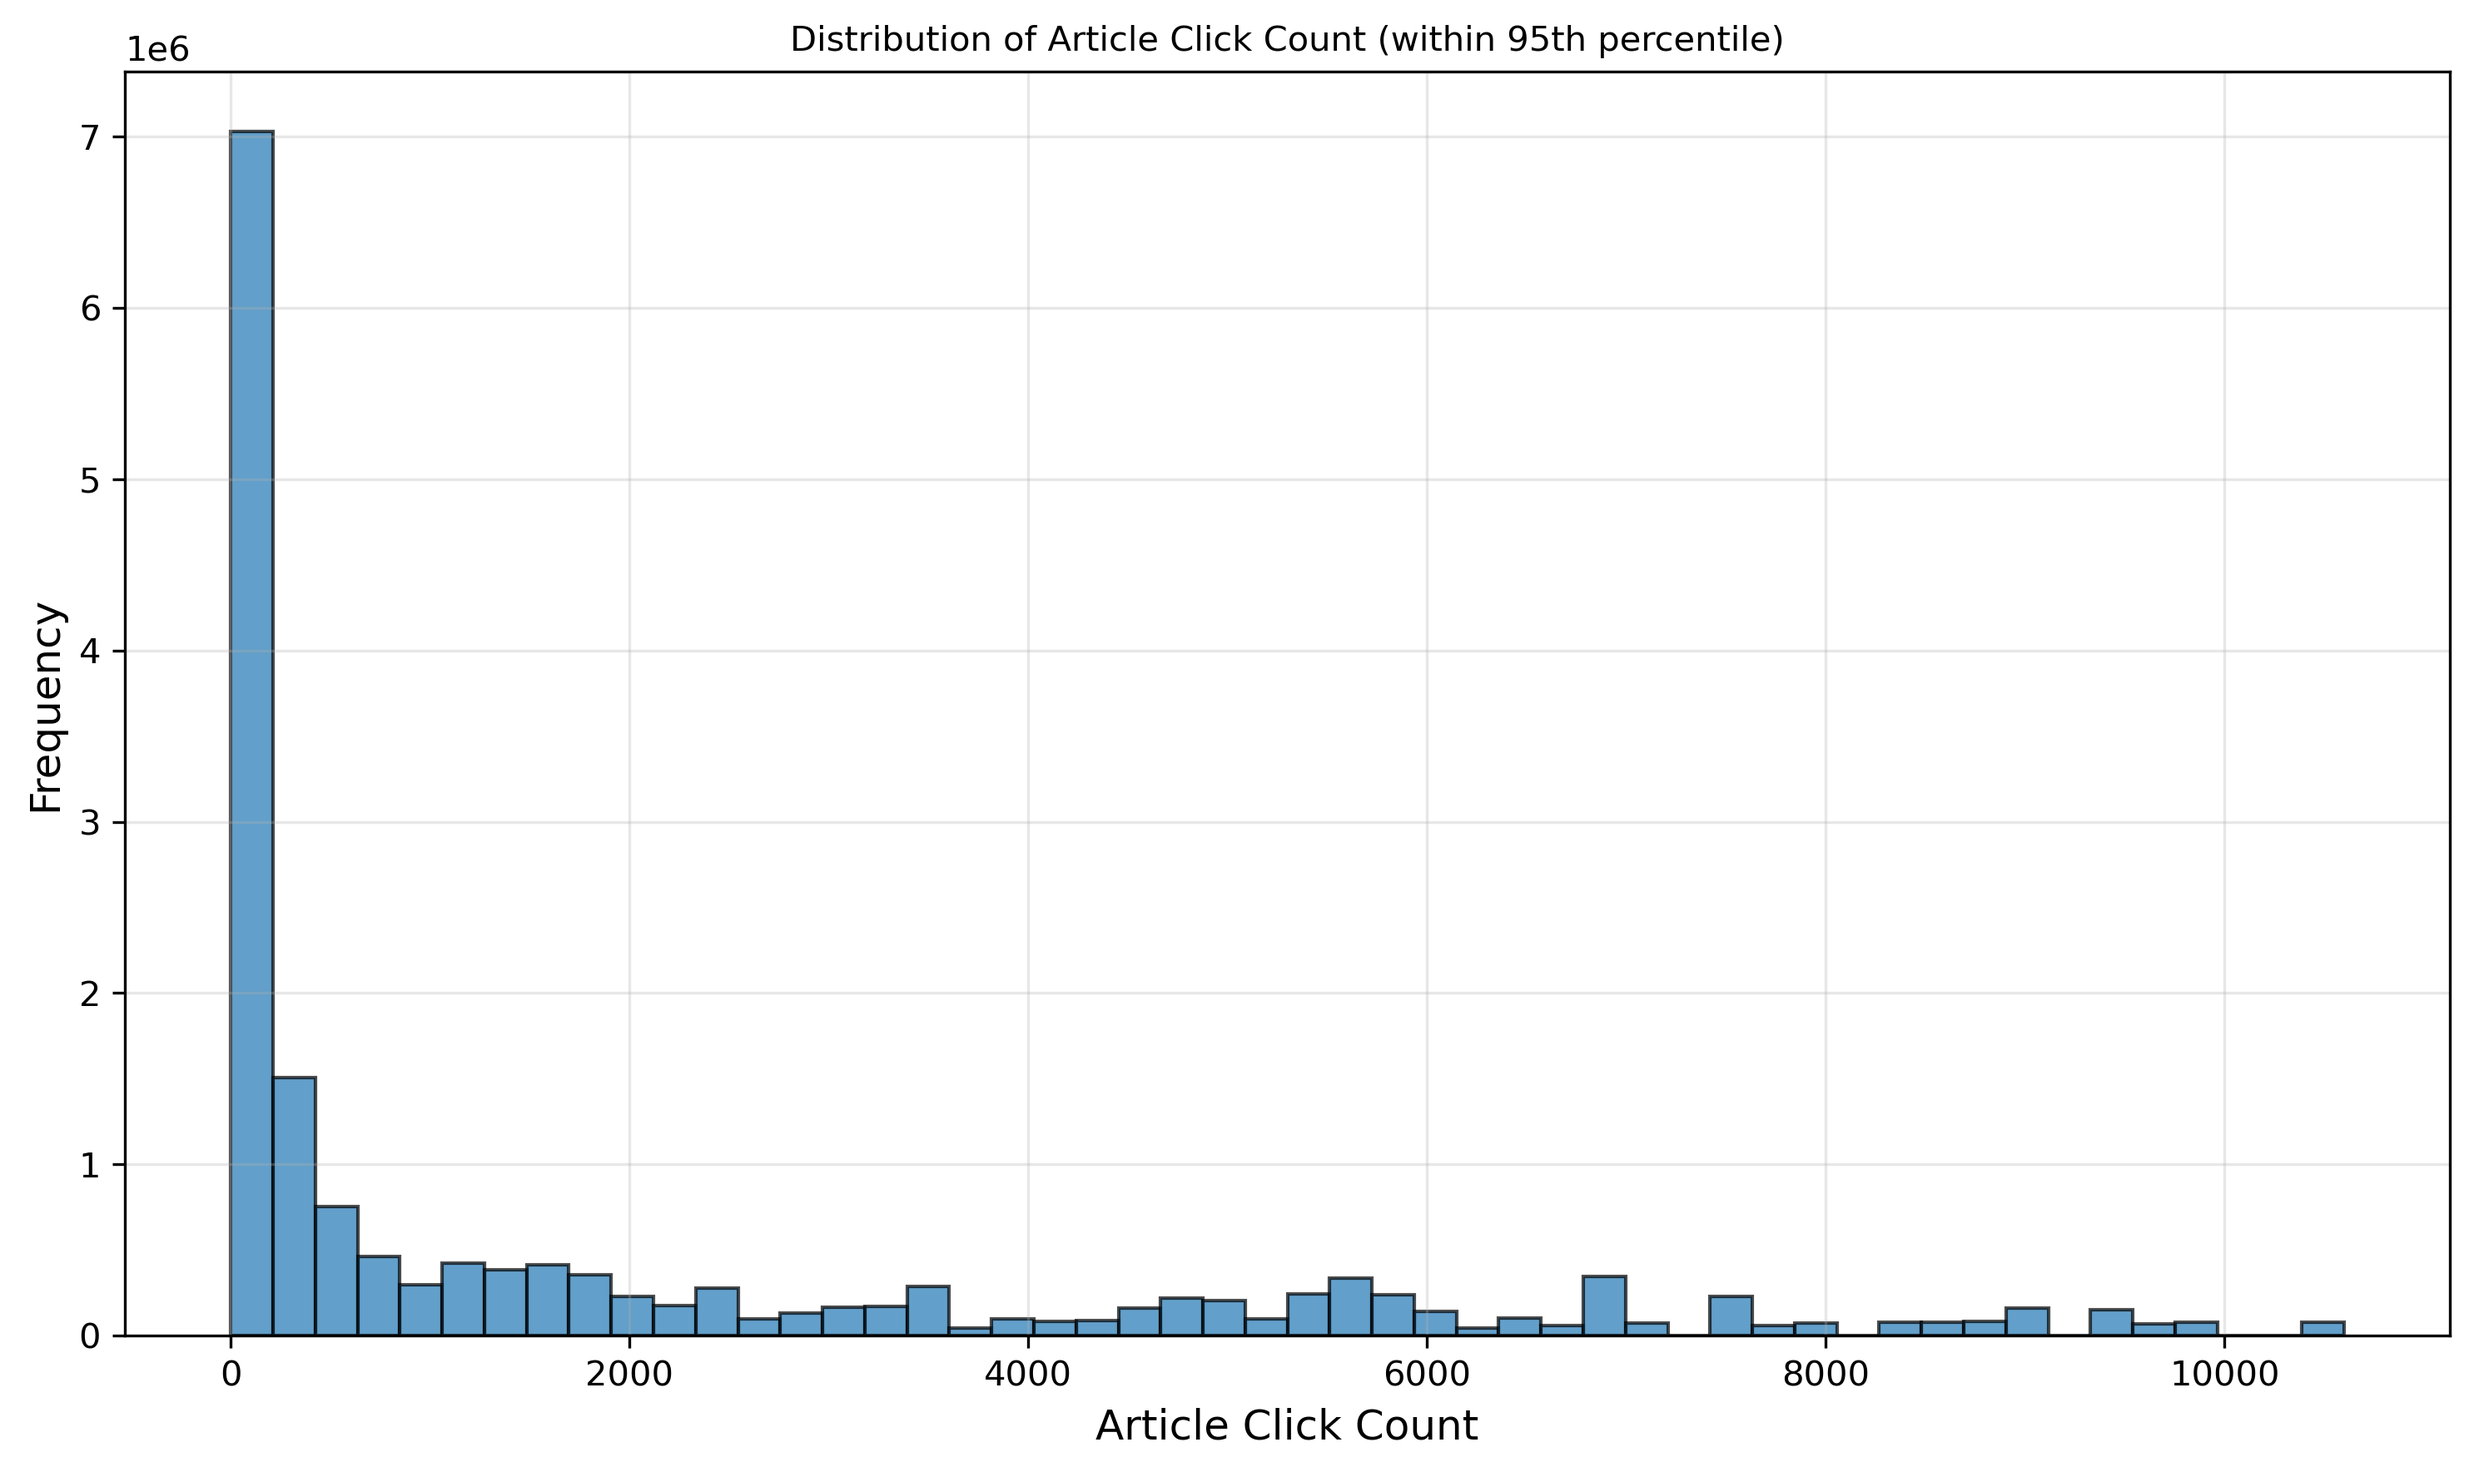
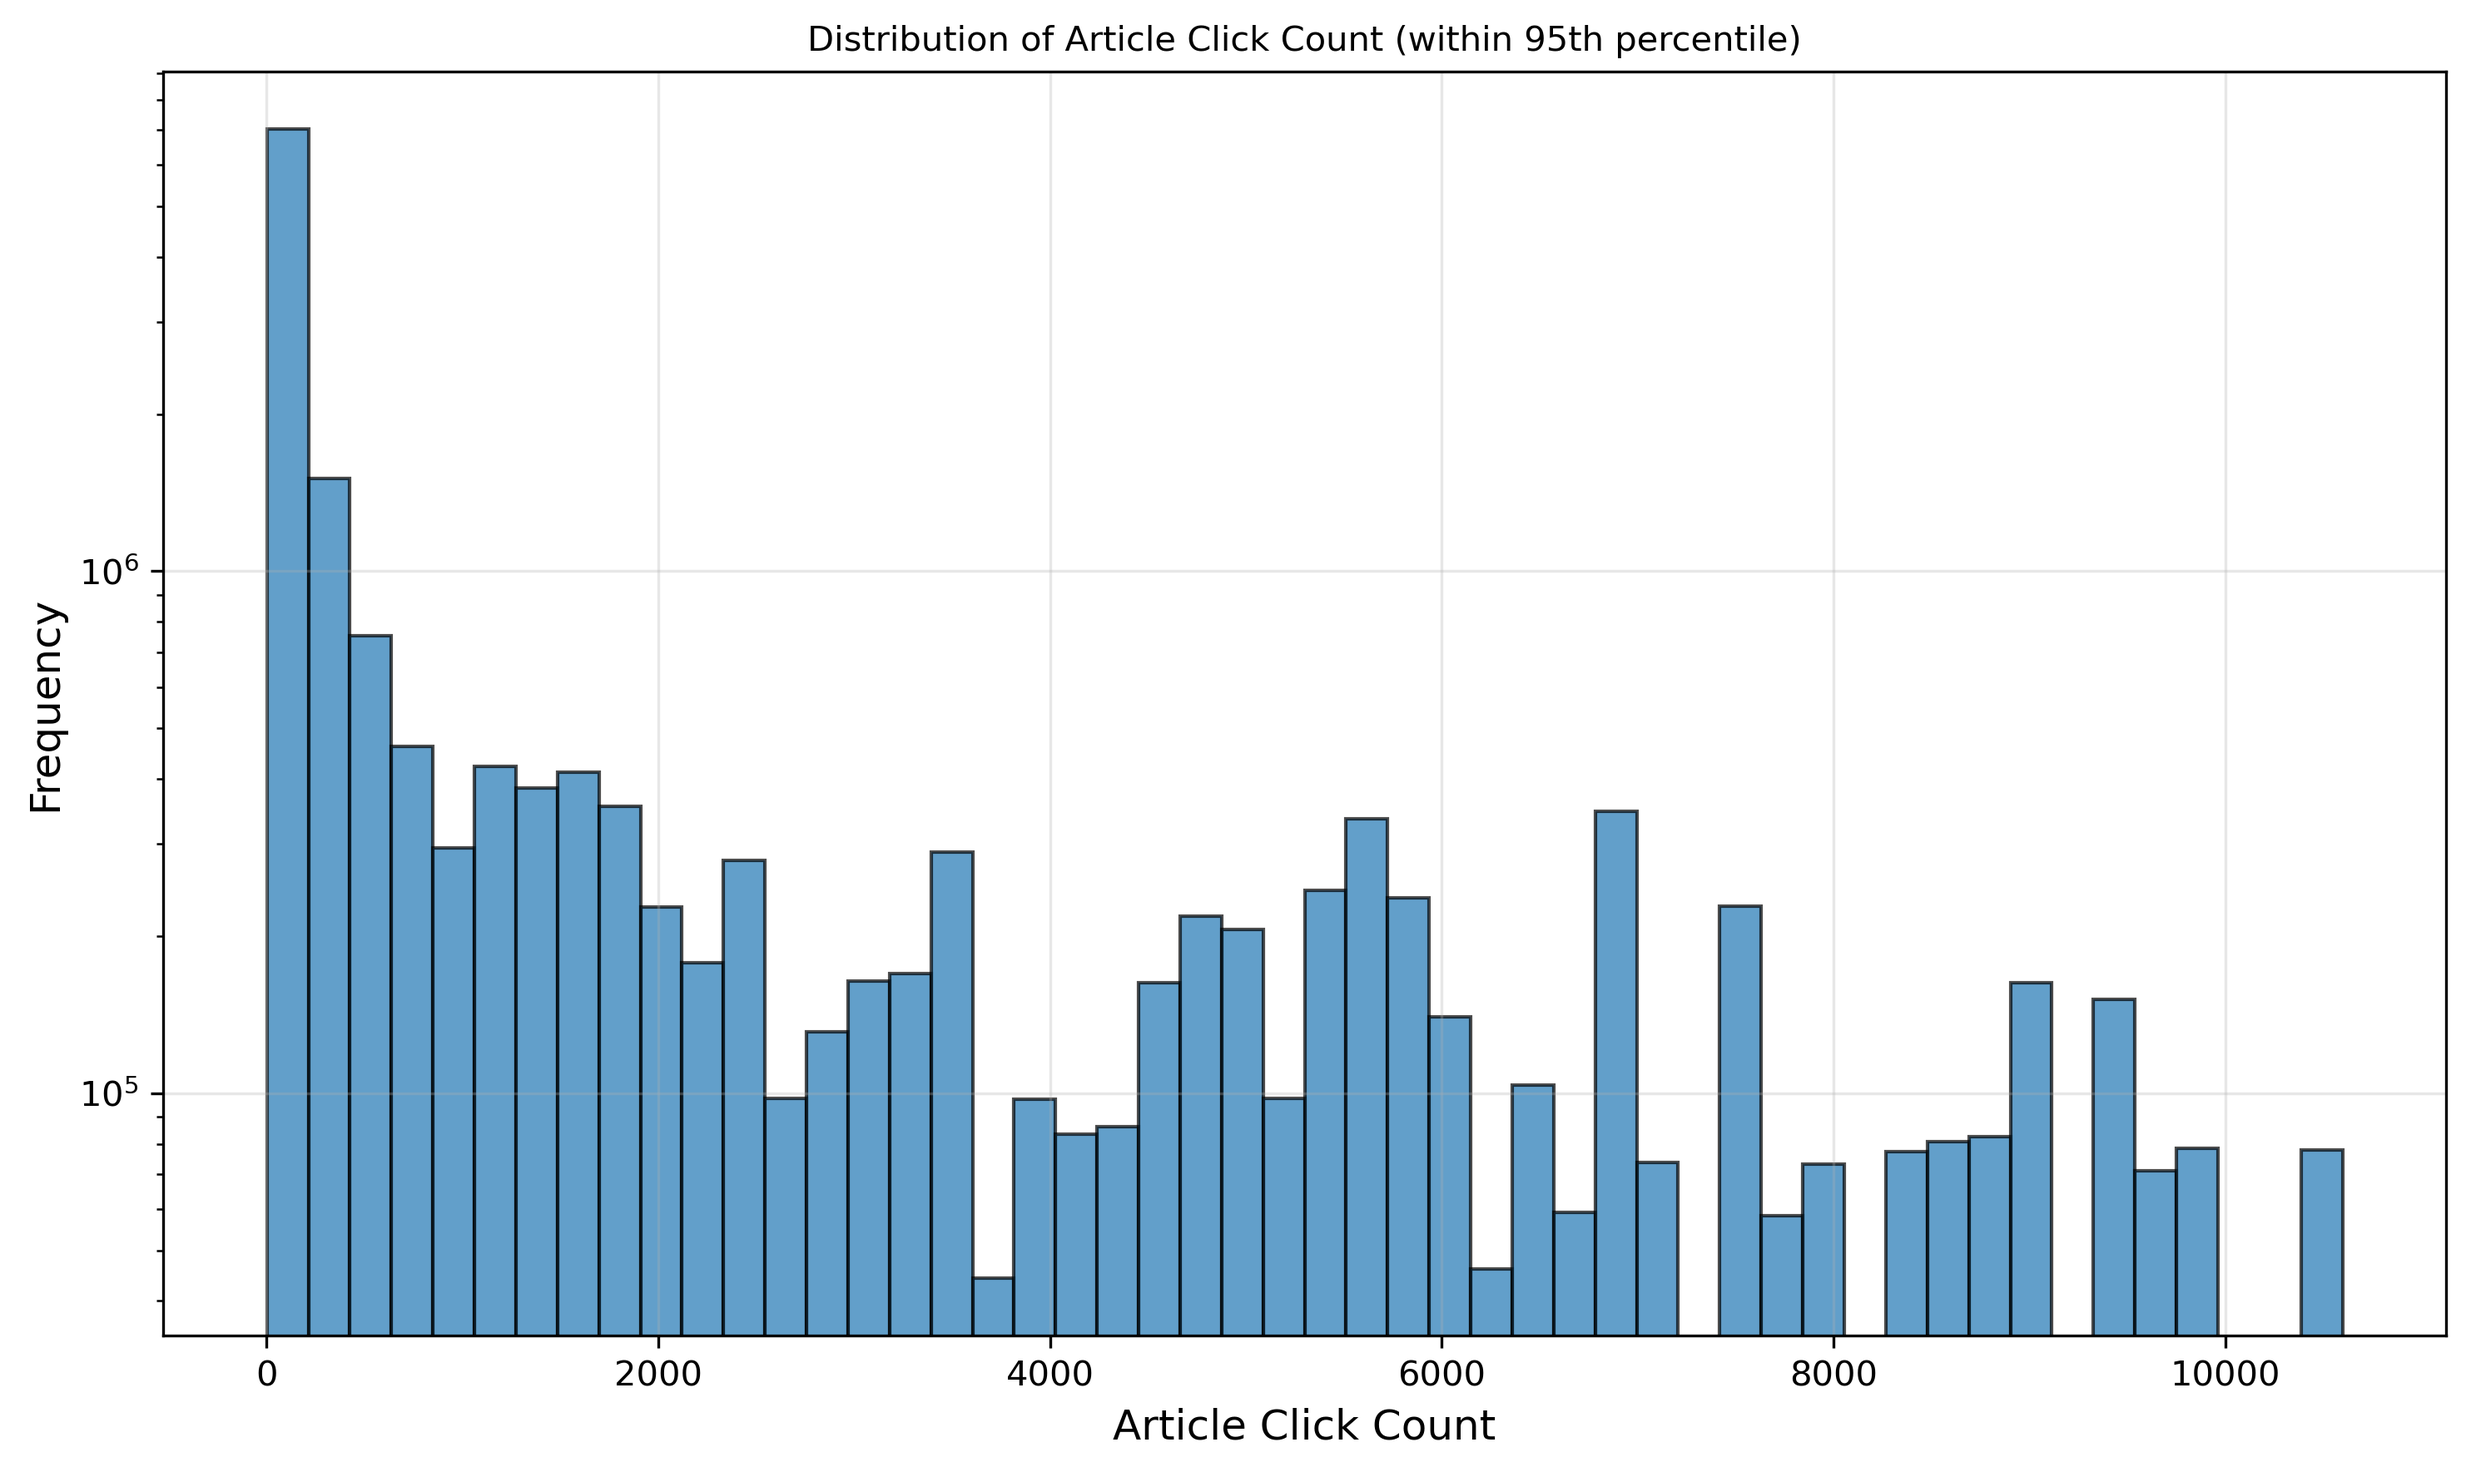
docs: 更新部分图片坐标，完善报告

diff --git a/report/generate_feature_plots.py b/report/generate_feature_plots.py
@@ -54,6 +54,8 @@ def main():
         plt.xlabel('Article Word Count', fontsize=12, fontproperties=FONT_PROP)
         plt.ylabel('Frequency', fontsize=12, fontproperties=FONT_PROP)
         plt.title('Distribution of Article Word Count', fontsize=14, fontweight='bold', fontproperties=FONT_PROP)
+        # 使用对数刻度，使长尾分布更易观察
+        plt.yscale('log')
         plt.grid(True, alpha=0.3)
         plt.tight_layout()
         plt.savefig(os.path.join(output_dir, 'words_count_distribution.png'), dpi=300, bbox_inches='tight')
@@ -94,11 +96,18 @@ def main():
         time_diff = df_feature['user_last_click_timestamp_diff'].dropna()
         # Filter outliers
         time_diff = time_diff[(time_diff >= -1e10) & (time_diff <= 1e10)]
-        plt.hist(time_diff, bins=50, edgecolor='black', alpha=0.7)
-        plt.xlabel('User Last Click Time Difference (s)', fontsize=12, fontproperties=FONT_PROP)
-        plt.ylabel('Frequency', fontsize=12, fontproperties=FONT_PROP)
+        # Convert to days for better readability
+        time_diff_days = time_diff / (24 * 3600)
+        # Filter to reasonable range (-30 to 30 days) for better visualization
+        time_diff_days = time_diff_days[(time_diff_days >= -30) & (time_diff_days <= 30)]
+        plt.hist(time_diff_days, bins=60, edgecolor='black', alpha=0.7)
+        plt.xlabel('User Last Click Time Difference (days)', fontsize=12, fontproperties=FONT_PROP)
+        plt.ylabel('Frequency (log scale)', fontsize=12, fontproperties=FONT_PROP)
+        plt.yscale('log')  # Use log scale for y-axis to handle long tail
         plt.title('Distribution of User Last Click Time Difference', fontsize=14, fontweight='bold', fontproperties=FONT_PROP)
-        plt.grid(True, alpha=0.3)
+        plt.axvline(x=0, color='red', linestyle='--', linewidth=1.5, alpha=0.7, label='No difference')
+        plt.legend()
+        plt.grid(True, alpha=0.3, which='both')
         plt.tight_layout()
         plt.savefig(os.path.join(output_dir, 'user_last_click_timestamp_diff.png'), dpi=300, bbox_inches='tight')
         plt.close()
@@ -127,6 +136,7 @@ def main():
         plt.xlabel('User Click Count', fontsize=12, fontproperties=FONT_PROP)
         plt.ylabel('Frequency', fontsize=12, fontproperties=FONT_PROP)
         plt.title('Distribution of User Click Count (within 95th percentile)', fontsize=14, fontweight='bold', fontproperties=FONT_PROP)
+        plt.yscale('log')
         plt.grid(True, alpha=0.3)
         plt.tight_layout()
         plt.savefig(os.path.join(output_dir, 'user_click_count_distribution.png'), dpi=300, bbox_inches='tight')
@@ -142,6 +152,7 @@ def main():
         plt.xlabel('Article Click Count', fontsize=12, fontproperties=FONT_PROP)
         plt.ylabel('Frequency', fontsize=12, fontproperties=FONT_PROP)
         plt.title('Distribution of Article Click Count (within 95th percentile)', fontsize=14, fontweight='bold', fontproperties=FONT_PROP)
+        plt.yscale('log')
         plt.grid(True, alpha=0.3)
         plt.tight_layout()
         plt.savefig(os.path.join(output_dir, 'article_click_count_distribution.png'), dpi=300, bbox_inches='tight')
@@ -177,11 +188,15 @@ def main():
         # Convert to days since min time for better visualization
         min_time = created_time.min()
         days_since_min = (created_time - min_time) / (24 * 3600)
-        plt.hist(days_since_min, bins=50, edgecolor='black', alpha=0.7)
+        # Filter to 99th percentile to remove extreme outliers for better visualization
+        q99 = days_since_min.quantile(0.99)
+        days_since_min_filtered = days_since_min[days_since_min <= q99]
+        plt.hist(days_since_min_filtered, bins=80, edgecolor='black', alpha=0.7)
         plt.xlabel('Days Since Minimum Creation Time', fontsize=12, fontproperties=FONT_PROP)
-        plt.ylabel('Frequency', fontsize=12, fontproperties=FONT_PROP)
+        plt.ylabel('Frequency (log scale)', fontsize=12, fontproperties=FONT_PROP)
+        plt.yscale('log')  # Use log scale for y-axis to handle long tail
         plt.title('Distribution of Article Creation Time', fontsize=14, fontweight='bold', fontproperties=FONT_PROP)
-        plt.grid(True, alpha=0.3)
+        plt.grid(True, alpha=0.3, which='both')
         plt.tight_layout()
         plt.savefig(os.path.join(output_dir, 'article_creation_time_distribution.png'), dpi=300, bbox_inches='tight')
         plt.close()
@@ -228,6 +243,7 @@ def main():
         plt.ylabel('Frequency', fontsize=12, fontproperties=FONT_PROP)
         plt.title('Word Count Distribution: Positive vs Negative Samples', fontsize=14, fontweight='bold', fontproperties=FONT_PROP)
         plt.legend()
+        plt.yscale('log')
         plt.grid(True, alpha=0.3)
         plt.tight_layout()
         plt.savefig(os.path.join(output_dir, 'words_count_pos_neg_comparison.png'), dpi=300, bbox_inches='tight')
@@ -247,6 +263,7 @@ def main():
         plt.ylabel('Frequency', fontsize=12, fontproperties=FONT_PROP)
         plt.title('Similarity Score Distribution: Positive vs Negative Samples', fontsize=14, fontweight='bold', fontproperties=FONT_PROP)
         plt.legend()
+        plt.yscale('log')
         plt.grid(True, alpha=0.3)
         plt.tight_layout()
         plt.savefig(os.path.join(output_dir, 'sim_score_pos_neg_comparison.png'), dpi=300, bbox_inches='tight')

diff --git a/report/report.tex b/report/report.tex
@@ -176,13 +176,6 @@
 \end{tabular}
 \end{table}
 
-\begin{figure}[htbp]
-\centering
-\includegraphics[width=0.8\textwidth]{assets/words_count_distribution.png}
-\caption{文章字数分布}
-\end{figure}
-
-\textbf{关键发现：}从分布图可以看出，文章字数主要集中在100-300字之间，符合新闻文章的特点。正负样本的字数分布相似，说明文章长度需要与其他特征配合使用。不同类别的文章数量差异很大，某些类别的正样本比例明显高于其他类别，说明类别特征很重要。
 
 \begin{figure}[H]
 \centering
@@ -197,6 +190,30 @@
 \caption{文章类别分布}
 \end{subfigure}
 \caption{文章基础特征分布}
+\end{figure}
+
+\textbf{关键发现：}从分布图可以看出，文章字数主要集中在100-300字之间，符合新闻文章的特点。正负样本的字数分布相似，说明文章长度需要与其他特征配合使用。不同类别的文章数量差异很大，某些类别的正样本比例明显高于其他类别，说明类别特征很重要。
+
+
+\begin{figure}[H]
+\centering
+\includegraphics[width=0.8\textwidth]{assets/article_creation_time_distribution.png}
+\caption{文章创建时间分布}
+\end{figure}
+
+\begin{figure}[H]
+\centering
+\begin{subfigure}{0.48\textwidth}
+\centering
+\includegraphics[width=\textwidth]{assets/words_count_pos_neg_comparison.png}
+\caption{文章字数正负样本对比}
+\end{subfigure}
+\begin{subfigure}{0.48\textwidth}
+\centering
+\includegraphics[width=\textwidth]{assets/category_pos_neg_comparison.png}
+\caption{文章类别正负样本对比}
+\end{subfigure}
+\caption{文章基础特征在正负样本上的分布对比}
 \end{figure}
 
 \subsubsection{召回相似度特征}
@@ -241,6 +258,26 @@
 \caption{正负样本对比}
 \end{subfigure}
 \caption{召回相似度特征分析}
+\end{figure}
+
+\begin{figure}[H]
+\centering
+\begin{subfigure}{0.32\textwidth}
+\centering
+\includegraphics[width=\textwidth]{assets/itemcf_sim_distribution.png}
+\caption{ItemCF相似度分布}
+\end{subfigure}
+\begin{subfigure}{0.32\textwidth}
+\centering
+\includegraphics[width=\textwidth]{assets/binetwork_sim_distribution.png}
+\caption{Binetwork相似度分布}
+\end{subfigure}
+\begin{subfigure}{0.32\textwidth}
+\centering
+\includegraphics[width=\textwidth]{assets/w2v_sim_distribution.png}
+\caption{W2V相似度分布}
+\end{subfigure}
+\caption{不同相似度特征分布比较}
 \end{figure}
 
 \subsubsection{用户行为特征}
@@ -310,6 +347,12 @@
 
 \begin{figure}[H]
 \centering
+\includegraphics[width=0.8\textwidth]{assets/words_count_diff_distribution.png}
+\caption{候选文章与最近点击文章字数差值分布}
+\end{figure}
+
+\begin{figure}[H]
+\centering
 \begin{subfigure}{0.48\textwidth}
 \centering
 \includegraphics[width=\textwidth]{assets/user_click_count_distribution.png}
@@ -341,6 +384,12 @@
 \bottomrule
 \end{tabular}
 \end{table}
+
+\begin{figure}[H]
+\centering
+\includegraphics[width=0.6\textwidth]{assets/label_distribution.png}
+\caption{正负样本数量分布}
+\end{figure}
 
 \textbf{特征相关性分析：}从特征相关性热力图可以看出：
 
